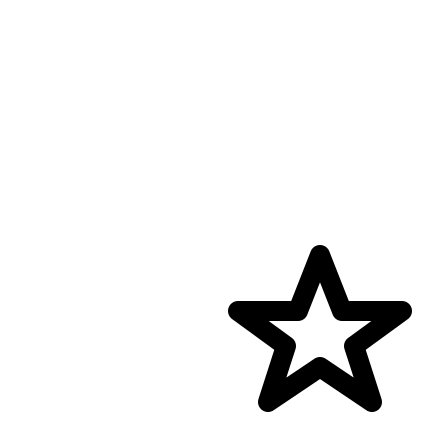
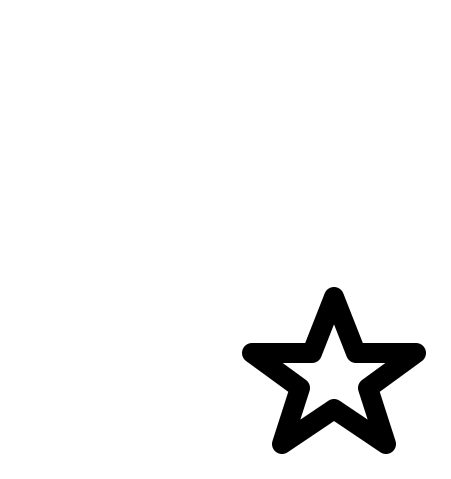
fix: lower the R badge's star per Stitch's refined mockup
Re-fetched "Rockstar R Logo - Lowered Star" (same project, new screen
ID) -- star polygon moved further down and away from the R's leg for
cleaner visual separation. Same R path, same re-extraction pipeline,
just a different source SVG; renly_r_star_badge.png regenerated in
place, no code changes beyond the doc comment.

Changed region(s): [[0.508, 0.5379, 0.9563, 0.9563], [0.777, 0.8966, 0.8069, 0.9264]]

diff --git a/app/lib/features/auth/splash_screen.dart b/app/lib/features/auth/splash_screen.dart
@@ -30,18 +30,22 @@ import '../../core/theme/app_colors.dart';
 /// app's brand screens.
 ///
 /// The badge glyph is the real Stitch-generated "Renly - Rockstar Style Logo
-/// Refined" vector artwork (screen ID `8f8646d4f24a4540972123e2f372e7fc`,
-/// itself a direct follow-up ask, not part of the original Kinetic-Reveal
-/// mockup) -- a hand-tuned italic "R" with an authentic bevel-cut counter
-/// plus a 5-point star tucked into its bottom-right corner, replacing the
-/// earlier system-font `Text('R')` + generic `PhosphorIcons.star()`
-/// approximation. Downloaded as SVG (this screen's `htmlCode` field carries
-/// `image/svg+xml`, not markup), then rasterized to a transparent PNG with
-/// the R recolored black->white (the source SVG drew it black for its own
-/// lime background; this badge's own background is ink/black) and cropped
-/// tight to its ink bbox with a small breathing margin --
-/// `renly_r_star_badge.png`. Both `splash_tagline`/`splash_subtitle` l10n
-/// keys and the bottom-pinned tagline text were removed in the round before
+/// Refined" vector artwork, itself a direct follow-up ask, not part of the
+/// original Kinetic-Reveal mockup -- a hand-tuned italic "R" with an
+/// authentic bevel-cut counter plus a 5-point star tucked into its
+/// bottom-right corner, replacing the earlier system-font `Text('R')` +
+/// generic `PhosphorIcons.star()` approximation. Downloaded as SVG (this
+/// screen's `htmlCode` field carries `image/svg+xml`, not markup), then
+/// rasterized to a transparent PNG with the R recolored black->white (the
+/// source SVG drew it black for its own lime background; this badge's own
+/// background is ink/black) and cropped tight to its ink bbox with a small
+/// breathing margin -- `renly_r_star_badge.png`. Re-fetched once more under
+/// a new screen ID ("Rockstar R Logo - Lowered Star") for a star-position
+/// refinement only (same R path, star polygon moved lower for cleaner
+/// separation from the R's leg) -- same re-extraction pipeline, just a
+/// different source SVG, no code changes needed since the asset filename
+/// didn't change. Both `splash_tagline`/`splash_subtitle` l10n keys and the
+/// bottom-pinned tagline text were removed in the round before
 /// this one, for a plain/minimal splash with nothing below the logo.
 ///
 /// The native splash (pubspec.yaml's flutter_native_splash config) is a
